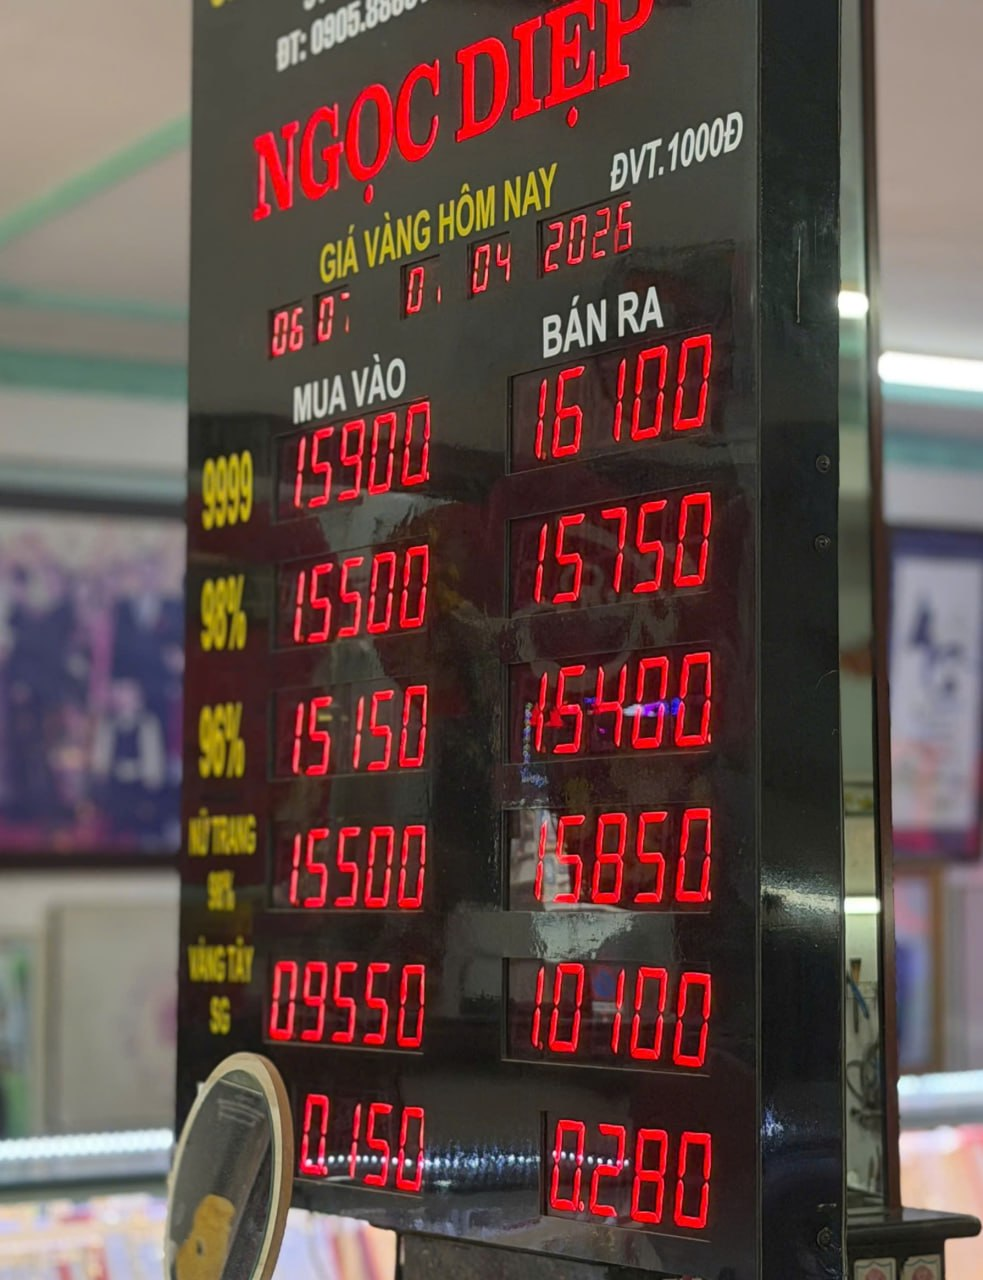
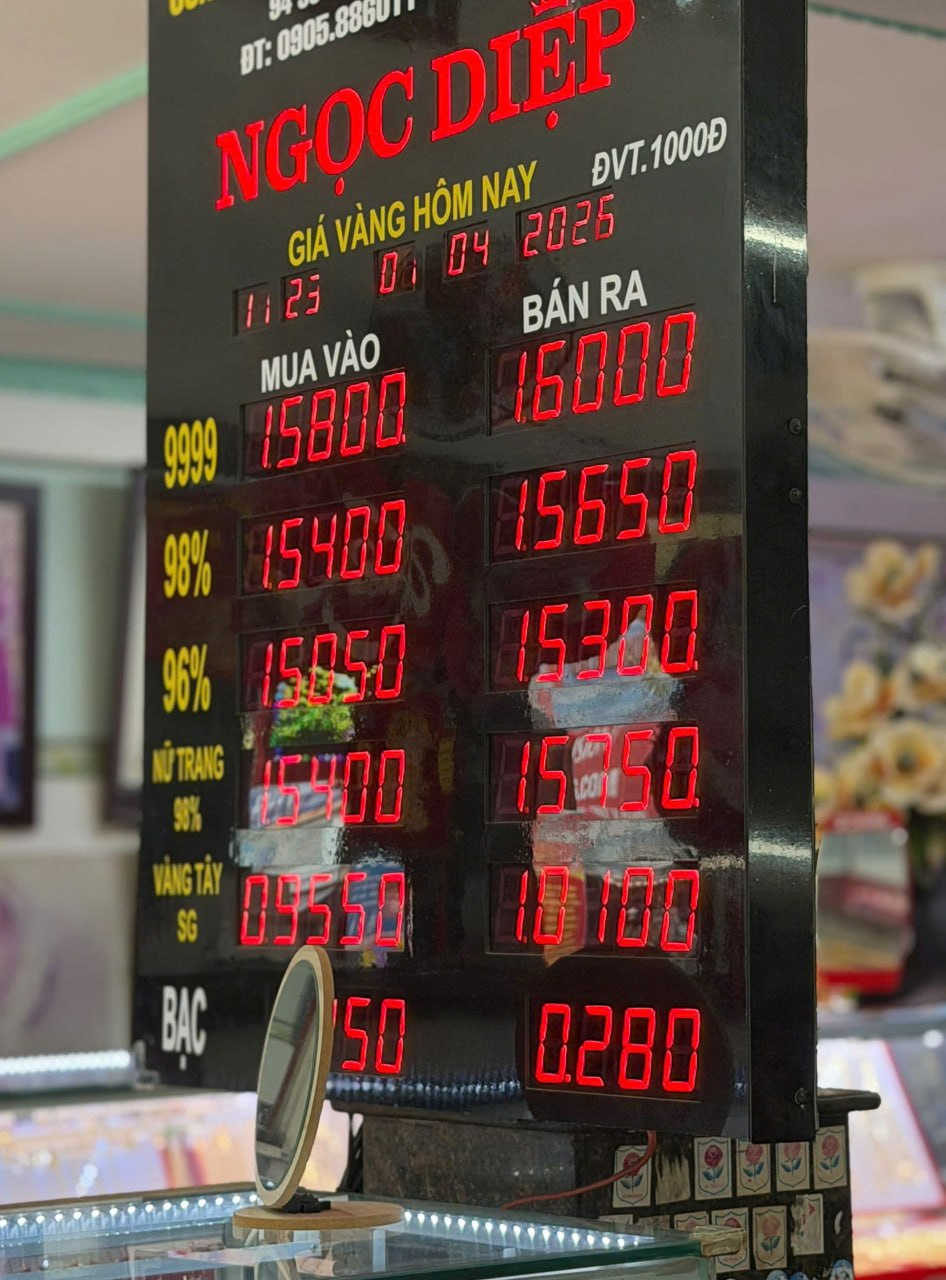
Update ngoc-diep price image (11:39)

diff --git a/app/data/goldShops.ts b/app/data/goldShops.ts
@@ -12,7 +12,7 @@ export const GOLD_SHOPS: GoldShop[] = [
     name: "Ngọc Diệp",
     location: "Đà Nẵng",
     image: "images/ngoc-diep.jpg",
-    updatedAt: "08:19",
+    updatedAt: "11:39",
   },
   {
     id: "ngoc-thinh",
